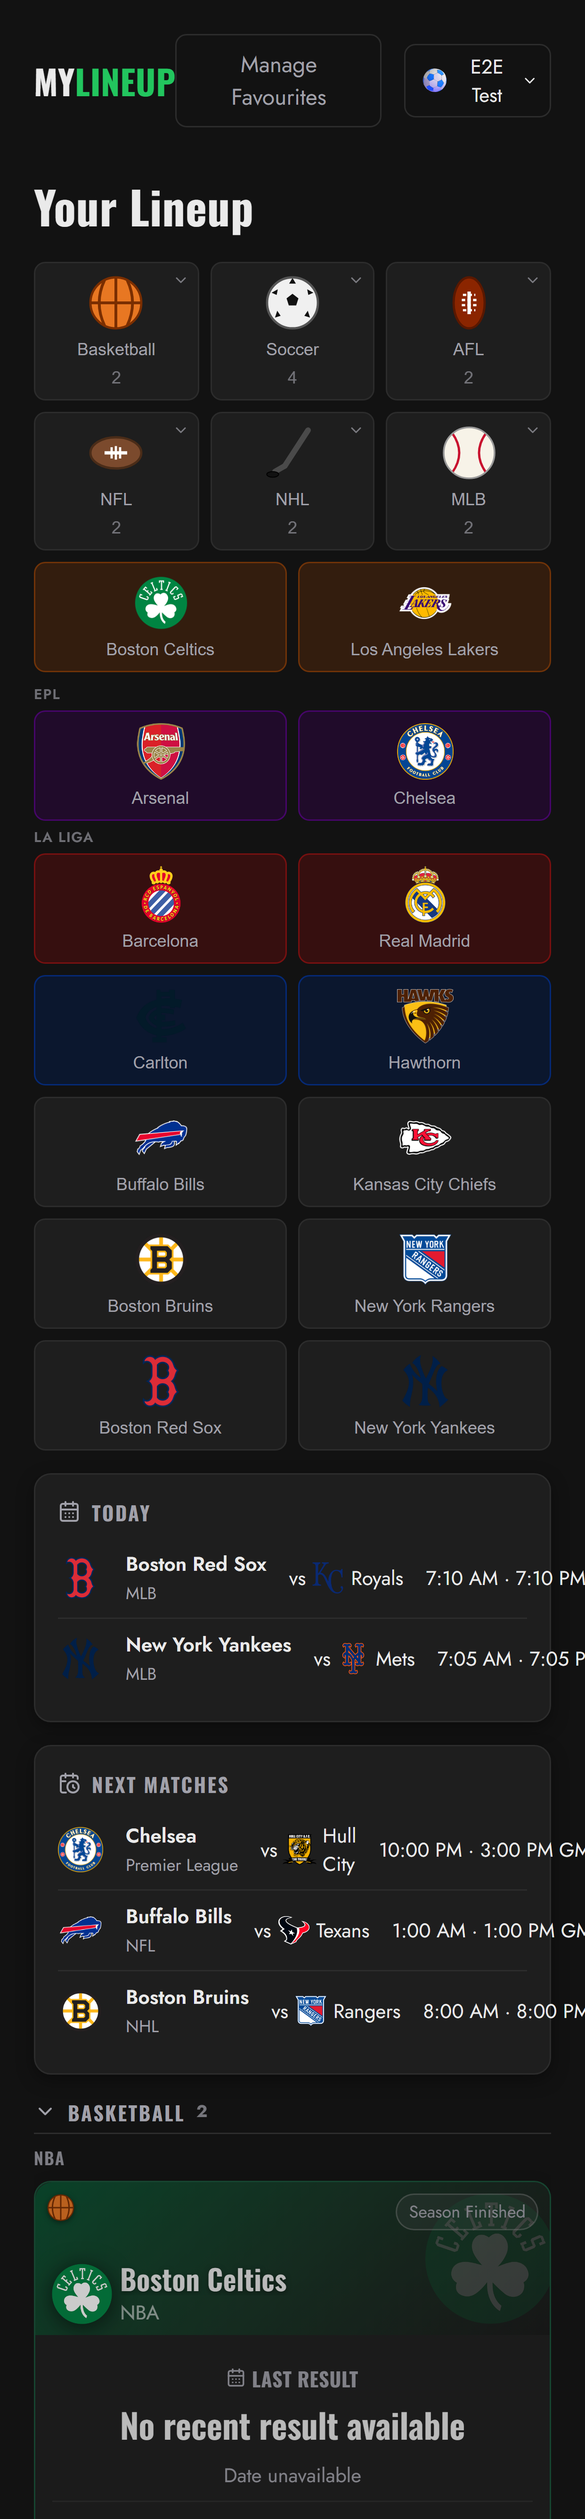
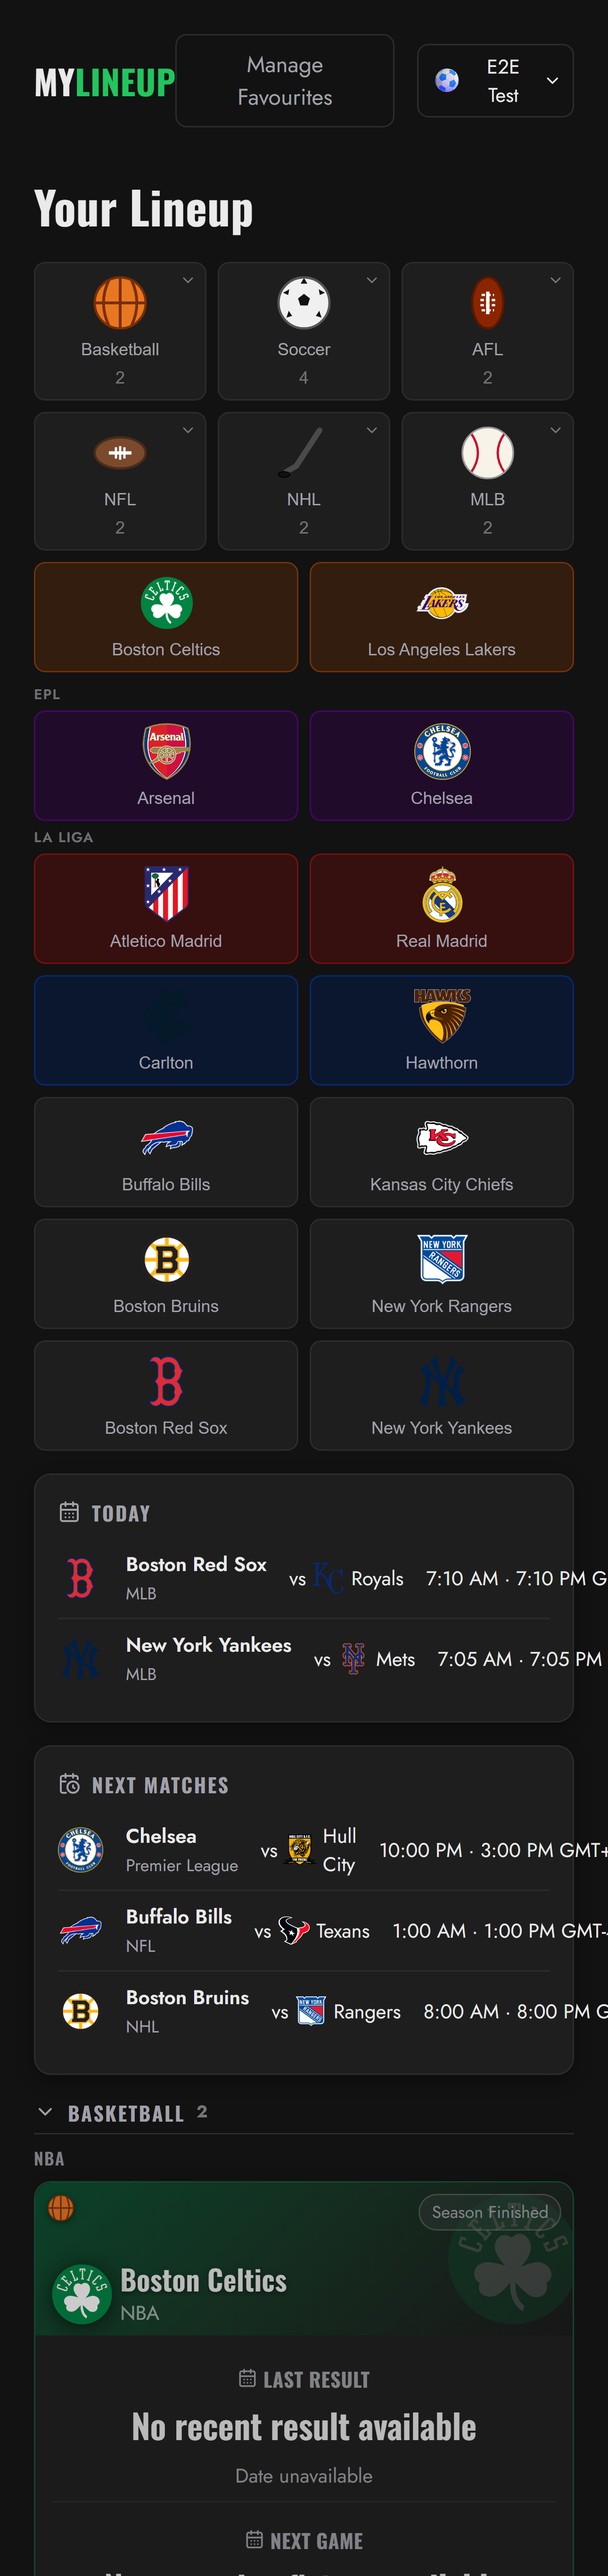
Refresh README screenshots and polish the capture script
Re-shoot all four docs/screenshots against the live app: full
two-teams-per-sport grid, current header with the account menu, and the
split Today / Next Matches feeds. Rename the capture helper to
e2e/screenshot-dashboard.mjs, resolve paths from the module location
instead of a hardcoded absolute path, and document it in e2e/README.md.

diff --git a/e2e/README.md b/e2e/README.md
@@ -27,6 +27,17 @@ This is idempotent — safe to re-run any time (logs in instead of re-registerin
 npm run test:e2e
 ```
 
+## Regenerating the README screenshots
+
+`screenshot-dashboard.mjs` drives the same test account through the live app to
+refresh the images in `docs/screenshots/`. It temporarily fills the account with
+favourites across every sport, captures the shots, then restores the lean state
+this suite expects.
+
+```bash
+node screenshot-dashboard.mjs
+```
+
 ## What's covered
 
 - API health check responds

diff --git a/README.md b/README.md
@@ -42,7 +42,7 @@ Supported leagues:
 
 ## 📸 Screenshots
 
-**Dashboard overview** — sport tiles, followed teams, and the today's games feed
+**Dashboard overview** — sport tiles, followed teams, and the "Today" / "Next Matches" feeds
 
 ![Dashboard overview](docs/screenshots/dashboard-overview.png)
 
